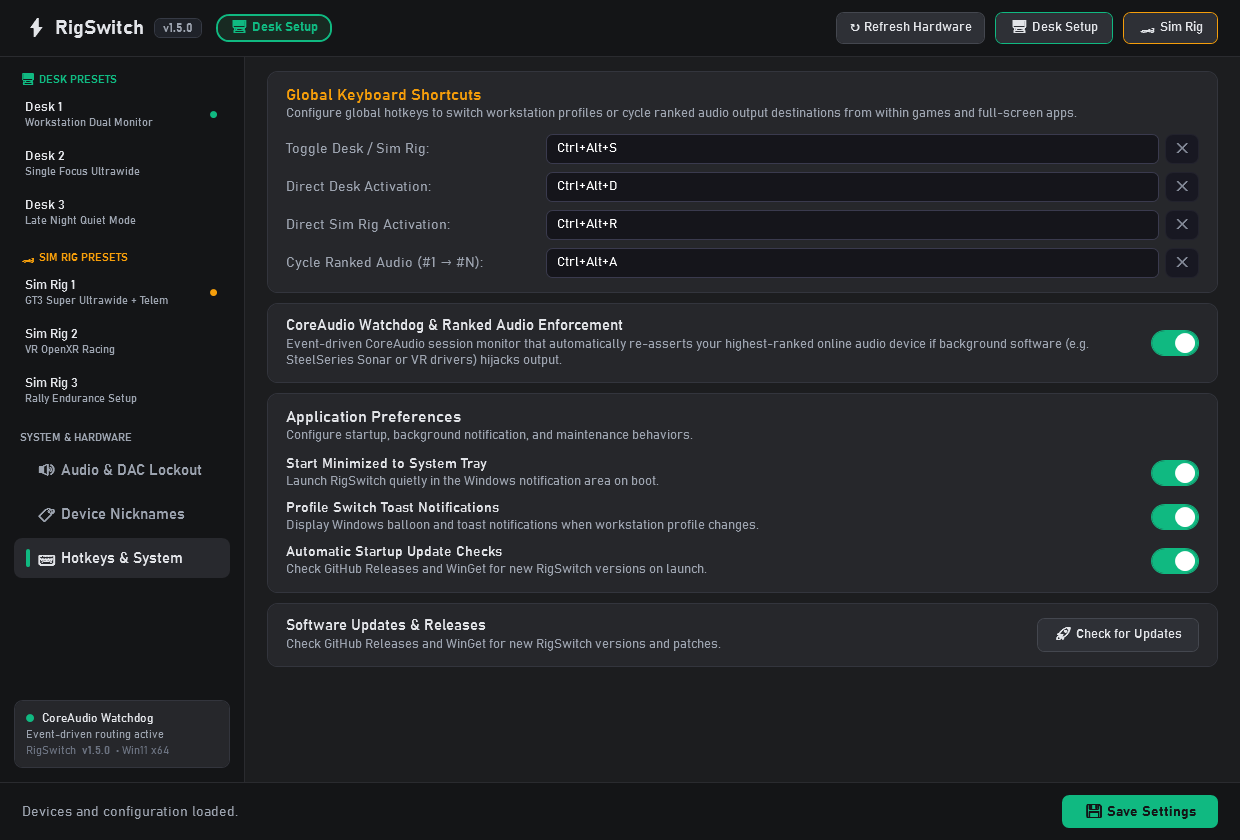
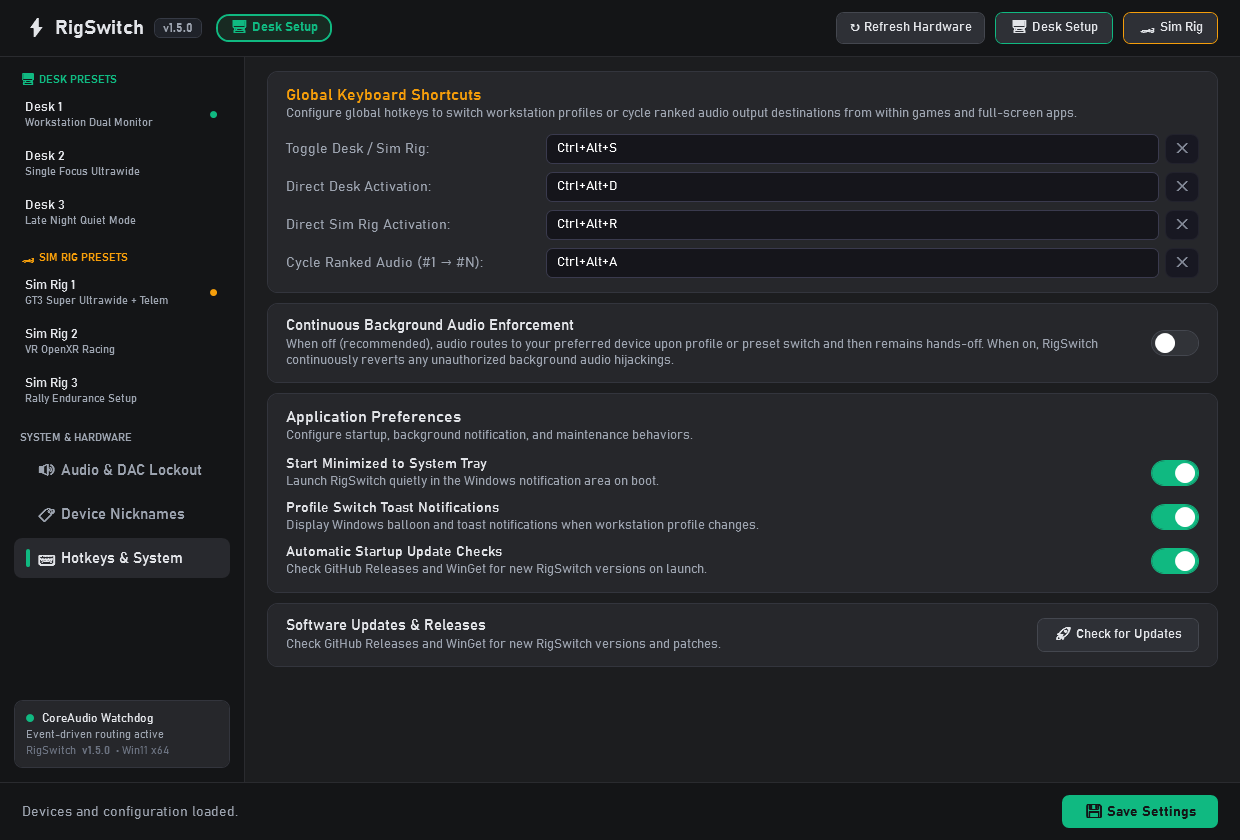
feat(audio): switch-only routing, multi-attribute shaker exclusion & disabled continuous background hijacking

Changed region(s): [[0.2145, 0.3714, 0.8887, 0.4333], [0.9194, 0.3714, 0.9806, 0.4333]]

diff --git a/src/RigSwitch.App/Views/MainSettingsWindow.xaml b/src/RigSwitch.App/Views/MainSettingsWindow.xaml
@@ -1352,8 +1352,8 @@
                                         <ColumnDefinition Width="Auto" />
                                     </Grid.ColumnDefinitions>
                                     <StackPanel VerticalAlignment="Center" Margin="0,0,16,0">
-                                        <TextBlock Text="CoreAudio Watchdog &amp; Ranked Audio Enforcement" FontSize="15" FontWeight="SemiBold" Foreground="{StaticResource TextPrimaryBrush}" />
-                                        <TextBlock Text="Event-driven CoreAudio session monitor that automatically re-asserts your highest-ranked online audio device if background software (e.g. SteelSeries Sonar or VR drivers) hijacks output." FontSize="12.5" Foreground="{StaticResource TextMutedBrush}" Margin="0,2,0,0" TextWrapping="Wrap" />
+                                        <TextBlock Text="Continuous Background Audio Enforcement" FontSize="15" FontWeight="SemiBold" Foreground="{StaticResource TextPrimaryBrush}" />
+                                        <TextBlock Text="When off (recommended), audio routes to your preferred device upon profile or preset switch and then remains hands-off. When on, RigSwitch continuously reverts any unauthorized background audio hijackings." FontSize="12.5" Foreground="{StaticResource TextMutedBrush}" Margin="0,2,0,0" TextWrapping="Wrap" />
                                     </StackPanel>
                                     <CheckBox Grid.Column="1"
                                               Style="{StaticResource FluentToggleSwitch}"

diff --git a/src/RigSwitch.Core/Services/ProfileSwitchCoordinator.cs b/src/RigSwitch.Core/Services/ProfileSwitchCoordinator.cs
@@ -120,7 +120,7 @@ public sealed partial class ProfileSwitchCoordinator : IProfileSwitchCoordinator
             var endpoints = await _audioDirector.EnumerateAudioEndpointsAsync(cancellationToken).ConfigureAwait(false);
             var endpointList = endpoints as IList<AudioEndpointInfo> ?? endpoints.ToList();
             var blacklisted = settings.BlacklistedAudioEndpointIds ?? [];
-            var allowedEndpoints = endpointList.Where(e => !blacklisted.Any(b => MatchesEndpoint(b, e.Id))).ToList();
+            var allowedEndpoints = endpointList.Where(e => !MatchesBlacklist(e, blacklisted, settings.CachedDeviceNames)).ToList();
             var playbackEndpoints = allowedEndpoints.Where(e => e.Flow == AudioDeviceFlow.Playback).ToList();
             var captureEndpoints = allowedEndpoints.Where(e => e.Flow == AudioDeviceFlow.Capture).ToList();
 
@@ -281,7 +281,7 @@ public sealed partial class ProfileSwitchCoordinator : IProfileSwitchCoordinator
             var endpoints = await _audioDirector.EnumerateAudioEndpointsAsync(cancellationToken).ConfigureAwait(false);
             var endpointList = endpoints as IList<AudioEndpointInfo> ?? endpoints.ToList();
             var blacklisted = settings.BlacklistedAudioEndpointIds ?? [];
-            var allowedEndpoints = endpointList.Where(e => !blacklisted.Any(b => MatchesEndpoint(b, e.Id))).ToList();
+            var allowedEndpoints = endpointList.Where(e => !MatchesBlacklist(e, blacklisted, settings.CachedDeviceNames)).ToList();
             var playbackEndpoints = allowedEndpoints.Where(e => e.Flow == AudioDeviceFlow.Playback).ToList();
             var captureEndpoints = allowedEndpoints.Where(e => e.Flow == AudioDeviceFlow.Capture).ToList();
 
@@ -299,7 +299,7 @@ public sealed partial class ProfileSwitchCoordinator : IProfileSwitchCoordinator
                     await Task.Delay(250, cancellationToken).ConfigureAwait(false);
                     endpoints = await _audioDirector.EnumerateAudioEndpointsAsync(cancellationToken).ConfigureAwait(false);
                     endpointList = endpoints as IList<AudioEndpointInfo> ?? endpoints.ToList();
-                    allowedEndpoints = endpointList.Where(e => !blacklisted.Any(b => MatchesEndpoint(b, e.Id))).ToList();
+                    allowedEndpoints = endpointList.Where(e => !MatchesBlacklist(e, blacklisted, settings.CachedDeviceNames)).ToList();
                     playbackEndpoints = allowedEndpoints.Where(e => e.Flow == AudioDeviceFlow.Playback).ToList();
                     captureEndpoints = allowedEndpoints.Where(e => e.Flow == AudioDeviceFlow.Capture).ToList();
 
@@ -483,6 +483,44 @@ public sealed partial class ProfileSwitchCoordinator : IProfileSwitchCoordinator
         }
     }
 
+    private static bool MatchesBlacklist(
+        AudioEndpointInfo endpoint,
+        IReadOnlyList<string>? blacklisted,
+        IDictionary<string, string>? cachedNames)
+    {
+        if (blacklisted == null || blacklisted.Count == 0)
+        {
+            return false;
+        }
+
+        foreach (var b in blacklisted)
+        {
+            if (string.IsNullOrWhiteSpace(b))
+            {
+                continue;
+            }
+
+            if (MatchesEndpoint(b, endpoint.Id))
+            {
+                return true;
+            }
+
+            if (MatchesFriendlyName(b, endpoint.Name, cachedNames))
+            {
+                return true;
+            }
+
+            if (cachedNames != null && cachedNames.TryGetValue(b, out var cachedBlacklistName) &&
+                !string.IsNullOrWhiteSpace(cachedBlacklistName) &&
+                string.Equals(cachedBlacklistName, endpoint.Name, StringComparison.OrdinalIgnoreCase))
+            {
+                return true;
+            }
+        }
+
+        return false;
+    }
+
     private static string? ResolveRankedAudioEndpoint(
         IReadOnlyList<string> rankedIds,
         IList<AudioEndpointInfo> allowedEndpoints,
@@ -503,15 +541,15 @@ public sealed partial class ProfileSwitchCoordinator : IProfileSwitchCoordinator
 
             var activeMatch = allowedEndpoints.FirstOrDefault(e =>
                 (MatchesEndpoint(e.Id, candidateId) || MatchesFriendlyName(candidateId, e.Name, cachedNames)) &&
-                e.State == DevicePresenceState.Active);
+                e.State == DevicePresenceState.Active &&
+                !MatchesBlacklist(e, blacklisted, cachedNames));
             if (activeMatch != null)
             {
                 return activeMatch.Id;
             }
         }
 
-        var firstActive = allowedEndpoints.FirstOrDefault(e => e.State == DevicePresenceState.Active);
-        return firstActive?.Id;
+        return null;
     }
 
     private static string? ResolveNextCycledRankedEndpoint(
@@ -577,9 +615,7 @@ public sealed partial class ProfileSwitchCoordinator : IProfileSwitchCoordinator
         var effectiveFallback = isFallbackBlacklisted ? null : fallbackAudioId;
 
         var candidates = endpoints as IList<AudioEndpointInfo> ?? endpoints.ToList();
-        var allowedCandidates = blacklisted != null
-            ? candidates.Where(e => !blacklisted.Any(b => MatchesEndpoint(b, e.Id))).ToList()
-            : candidates;
+        var allowedCandidates = candidates.Where(e => !MatchesBlacklist(e, blacklisted, cachedNames)).ToList();
 
         var primaryMatch = allowedCandidates.FirstOrDefault(e =>
             (MatchesEndpoint(e.Id, effectivePrimary) || MatchesFriendlyName(effectivePrimary, e.Name, cachedNames)) &&

diff --git a/src/RigSwitch.Infrastructure/Windows/CoreAudio/AudioEndpointWatchdogService.cs b/src/RigSwitch.Infrastructure/Windows/CoreAudio/AudioEndpointWatchdogService.cs
@@ -275,7 +275,7 @@ public sealed partial class AudioEndpointWatchdogService : IAudioEndpointWatchdo
                 }
             }
 
-            bool isBlacklisted = blacklisted?.Any(b => MatchesEndpoint(b, effectiveEndpointId)) == true;
+            bool isBlacklisted = MatchesBlacklist(effectiveEndpointId, blacklisted, renderEndpoints, settings.CachedDeviceNames);
             if (isBlacklisted)
             {
                 string? targetId = null;
@@ -291,13 +291,6 @@ public sealed partial class AudioEndpointWatchdogService : IAudioEndpointWatchdo
                 {
                     var activePreset = settings.GetActivePreset(settings.LastActiveProfile);
                     targetId = ResolveEffectiveTargetEndpoint(activePreset, settings.ActiveAudioOutputMode, blacklisted, renderEndpoints, settings.CachedDeviceNames);
-                }
-
-                if (string.IsNullOrWhiteSpace(targetId) && renderEndpoints is { Count: > 0 })
-                {
-                    targetId = renderEndpoints
-                        .FirstOrDefault(e => e.State == DevicePresenceState.Active && blacklisted?.Any(b => MatchesEndpoint(b, e.Id)) != true)
-                        ?.Id;
                 }
 
                 if (!string.IsNullOrWhiteSpace(targetId))
@@ -379,7 +372,7 @@ public sealed partial class AudioEndpointWatchdogService : IAudioEndpointWatchdo
                 if (renderEndpoints is { Count: > 0 })
                 {
                     var match = renderEndpoints.FirstOrDefault(e => e.State == DevicePresenceState.Active &&
-                        !blacklisted?.Any(b => MatchesEndpoint(b, e.Id)) == true &&
+                        !MatchesBlacklist(e.Id, blacklisted, renderEndpoints, cachedNames) &&
                         (MatchesEndpoint(candidateId, e.Id) || MatchesFriendlyName(candidateId, e.Name, cachedNames)));
                     if (match != null)
                     {
@@ -402,7 +395,7 @@ public sealed partial class AudioEndpointWatchdogService : IAudioEndpointWatchdo
         if (renderEndpoints is { Count: > 0 })
         {
             var matchPreferred = renderEndpoints.FirstOrDefault(e => e.State == DevicePresenceState.Active &&
-                !blacklisted?.Any(b => MatchesEndpoint(b, e.Id)) == true &&
+                !MatchesBlacklist(e.Id, blacklisted, renderEndpoints, cachedNames) &&
                 (MatchesEndpoint(preferredId, e.Id) || MatchesFriendlyName(preferredId, e.Name, cachedNames)));
             if (matchPreferred != null)
             {
@@ -410,7 +403,7 @@ public sealed partial class AudioEndpointWatchdogService : IAudioEndpointWatchdo
             }
 
             var matchFallback = renderEndpoints.FirstOrDefault(e => e.State == DevicePresenceState.Active &&
-                !blacklisted?.Any(b => MatchesEndpoint(b, e.Id)) == true &&
+                !MatchesBlacklist(e.Id, blacklisted, renderEndpoints, cachedNames) &&
                 (MatchesEndpoint(activePreset.FallbackAudioId, e.Id) || MatchesFriendlyName(activePreset.FallbackAudioId, e.Name, cachedNames)));
             if (matchFallback != null)
             {
@@ -433,6 +426,49 @@ public sealed partial class AudioEndpointWatchdogService : IAudioEndpointWatchdo
         return null;
     }
 
+    private static bool MatchesBlacklist(
+        string? endpointId,
+        IReadOnlyList<string>? blacklisted,
+        IReadOnlyList<AudioEndpointInfo>? renderEndpoints,
+        IDictionary<string, string>? cachedNames)
+    {
+        if (string.IsNullOrWhiteSpace(endpointId) || blacklisted == null || blacklisted.Count == 0)
+        {
+            return false;
+        }
+
+        var endpoint = renderEndpoints?.FirstOrDefault(e => MatchesEndpoint(e.Id, endpointId));
+        string? endpointName = endpoint?.Name;
+
+        foreach (var b in blacklisted)
+        {
+            if (string.IsNullOrWhiteSpace(b))
+            {
+                continue;
+            }
+
+            if (MatchesEndpoint(b, endpointId))
+            {
+                return true;
+            }
+
+            if (!string.IsNullOrWhiteSpace(endpointName) && MatchesFriendlyName(b, endpointName, cachedNames))
+            {
+                return true;
+            }
+
+            if (!string.IsNullOrWhiteSpace(endpointName) && cachedNames != null &&
+                cachedNames.TryGetValue(b, out var cachedBlacklistName) &&
+                !string.IsNullOrWhiteSpace(cachedBlacklistName) &&
+                string.Equals(cachedBlacklistName, endpointName, StringComparison.OrdinalIgnoreCase))
+            {
+                return true;
+            }
+        }
+
+        return false;
+    }
+
     private static bool IsEndpointAvailable(
         string? candidateId,
         IReadOnlyList<string>? blacklisted,
@@ -444,7 +480,7 @@ public sealed partial class AudioEndpointWatchdogService : IAudioEndpointWatchdo
             return false;
         }
 
-        if (blacklisted?.Any(b => MatchesEndpoint(b, candidateId)) == true)
+        if (MatchesBlacklist(candidateId, blacklisted, renderEndpoints, cachedNames))
         {
             return false;
         }

diff --git a/tests/RigSwitch.Tests.Unit/ProfileSwitchCoordinatorAudioToggleTests.cs b/tests/RigSwitch.Tests.Unit/ProfileSwitchCoordinatorAudioToggleTests.cs
@@ -428,5 +428,79 @@ public sealed class ProfileSwitchCoordinatorAudioToggleTests
         Assert.True(startingCalled);
         Assert.True(completedCalled);
     }
+
+    [Fact]
+    public async Task SwitchProfile_FiltersOutBlacklistedAudioEndpoints_ByFriendlyName()
+    {
+        var settings = new UserSettings
+        {
+            BlacklistedAudioEndpointIds = ["{OLD-SHAKER-GUID}"],
+            CachedDeviceNames = new Dictionary<string, string>
+            {
+                ["{OLD-SHAKER-GUID}"] = "Pedals - Nobsound (USB2.0 Device)"
+            },
+            DeskPresets =
+            [
+                new WorkstationPreset
+                {
+                    PrimaryAudioId = "{OFFLINE-ID}",
+                    FallbackAudioId = string.Empty,
+                    TargetMonitorIds = ["MONITOR-1"]
+                }
+            ]
+        };
+        _storageService.LoadSettingsAsync(Arg.Any<CancellationToken>()).Returns(settings);
+
+        _displayManager.EnumerateDisplaysAsync(Arg.Any<CancellationToken>())
+            .Returns([new DisplayDeviceInfo("MONITOR-1", @"\\.\DISPLAY1", "OLED", "GPU", true, true)]);
+
+        var endpoints = new List<AudioEndpointInfo>
+        {
+            new("{NEW-SHAKER-GUID}", "Pedals - Nobsound (USB2.0 Device)", "USB", DevicePresenceState.Active, false, false, AudioDeviceFlow.Playback),
+            new("{SPEAKERS}", "Pebble V3", "Realtek", DevicePresenceState.Active, false, false, AudioDeviceFlow.Playback)
+        };
+        _audioDirector.EnumerateAudioEndpointsAsync(Arg.Any<CancellationToken>()).Returns(endpoints);
+
+        var coordinator = new ProfileSwitchCoordinator(_displayManager, _audioDirector, _storageService);
+        await coordinator.SwitchProfileAsync(ProfileMode.Desk);
+
+        // Crucial: Must match friendly name and NOT route to {NEW-SHAKER-GUID}
+        await _audioDirector.Received(1).SetDefaultPlaybackEndpointAsync("{SPEAKERS}", Arg.Any<CancellationToken>());
+        await _audioDirector.DidNotReceive().SetDefaultPlaybackEndpointAsync("{NEW-SHAKER-GUID}", Arg.Any<CancellationToken>());
+    }
+
+    [Fact]
+    public async Task SwitchProfile_WhenRankedEndpointsOffline_DoesNotPickActiveShaker()
+    {
+        var settings = new UserSettings
+        {
+            BlacklistedAudioEndpointIds = ["{SHAKER-FOXI}"],
+            DeskPresets =
+            [
+                new WorkstationPreset
+                {
+                    AudioPriorityIds = ["{MONITOR-AUDIO}"],
+                    TargetMonitorIds = ["MONITOR-1"]
+                }
+            ]
+        };
+        _storageService.LoadSettingsAsync(Arg.Any<CancellationToken>()).Returns(settings);
+
+        _displayManager.EnumerateDisplaysAsync(Arg.Any<CancellationToken>())
+            .Returns([new DisplayDeviceInfo("MONITOR-1", @"\\.\DISPLAY1", "OLED", "GPU", true, true)]);
+
+        var endpoints = new List<AudioEndpointInfo>
+        {
+            new("{MONITOR-AUDIO}", "MSI MPG341CX OLED", "NVIDIA", DevicePresenceState.NotPresent, false, false, AudioDeviceFlow.Playback),
+            new("{SHAKER-FOXI}", "Chassis - Fosi BST-1 (USB Audio Adapter)", "USB", DevicePresenceState.Active, false, false, AudioDeviceFlow.Playback)
+        };
+        _audioDirector.EnumerateAudioEndpointsAsync(Arg.Any<CancellationToken>()).Returns(endpoints);
+
+        var coordinator = new ProfileSwitchCoordinator(_displayManager, _audioDirector, _storageService);
+        await coordinator.SwitchProfileAsync(ProfileMode.Desk);
+
+        // Must NOT route to shaker
+        await _audioDirector.DidNotReceive().SetDefaultPlaybackEndpointAsync("{SHAKER-FOXI}", Arg.Any<CancellationToken>());
+    }
 }
 

diff --git a/src/RigSwitch.App/ViewModels/DeviceOptionResolver.cs b/src/RigSwitch.App/ViewModels/DeviceOptionResolver.cs
@@ -43,7 +43,8 @@ internal static partial class DeviceOptionResolver
     /// <returns>A list of audio endpoints that are not blacklisted.</returns>
     public static IReadOnlyList<AudioEndpointInfo> FilterBlacklistedEndpoints(
         IEnumerable<AudioEndpointInfo>? endpoints,
-        IEnumerable<string>? blacklistedIds)
+        IEnumerable<string>? blacklistedIds,
+        IDictionary<string, string>? cachedNames = null)
     {
         if (endpoints == null)
         {
@@ -60,7 +61,11 @@ internal static partial class DeviceOptionResolver
         }
 
         return endpoints
-            .Where(ep => !blacklist.Any(bId => MatchesEndpoint(bId, ep.Id)))
+            .Where(ep => !blacklist.Any(bId =>
+                MatchesEndpoint(bId, ep.Id) ||
+                (cachedNames != null && cachedNames.TryGetValue(bId, out var cachedName) &&
+                 !string.IsNullOrWhiteSpace(cachedName) &&
+                 string.Equals(cachedName, ep.Name, StringComparison.OrdinalIgnoreCase))))
             .ToList();
     }
 

diff --git a/src/RigSwitch.Core/Models/UserSettings.cs b/src/RigSwitch.Core/Models/UserSettings.cs
@@ -251,9 +251,10 @@ public sealed record UserSettings
     public string AudioToggleHotkey { get; set; } = "Ctrl+Alt+A";
 
     /// <summary>
-    /// Gets or sets a value indicating whether primary audio is strictly enforced upon profile activation.
+    /// Gets or sets a value indicating whether primary audio is continuously enforced in the background.
+    /// When false, audio is routed only upon profile or preset switching, leaving subsequent manual switches intact.
     /// </summary>
-    public bool EnforcePrimaryAudio { get; set; } = true;
+    public bool EnforcePrimaryAudio { get; set; }
 
     /// <summary>
     /// Gets or sets the active audio output destination mode.

diff --git a/src/RigSwitch.App/ViewModels/PresetConfigurationItemViewModel.cs b/src/RigSwitch.App/ViewModels/PresetConfigurationItemViewModel.cs
@@ -1023,7 +1023,7 @@ public sealed class PresetConfigurationItemViewModel : ViewModelBase
         }
 
         AddableAudioOptions.Clear();
-        var allowedAudio = DeviceOptionResolver.FilterBlacklistedEndpoints(_latestAudioEndpoints, _blacklistedIds);
+        var allowedAudio = DeviceOptionResolver.FilterBlacklistedEndpoints(_latestAudioEndpoints, _blacklistedIds, _cachedNames);
         var unassignedAudio = allowedAudio
             .Where(e => e.Flow == AudioDeviceFlow.Playback && !_audioPriorityIds.Any(id => DeviceOptionResolver.MatchesEndpoint(id, e.Id)))
             .OrderBy(e => e.State == DevicePresenceState.Active ? 0 : 1)

diff --git a/src/RigSwitch.App/ViewModels/MainSettingsViewModel.cs b/src/RigSwitch.App/ViewModels/MainSettingsViewModel.cs
@@ -41,7 +41,7 @@ public sealed partial class MainSettingsViewModel : ViewModelBase, IDisposable
     private string _deskHotkey = "Ctrl+Alt+D";
     private string _rigHotkey = "Ctrl+Alt+R";
     private string _audioToggleHotkey = "Ctrl+Alt+A";
-    private bool _enforcePrimaryAudio = true;
+    private bool _enforcePrimaryAudio;
     private bool _startMinimizedToTray = true;
     private bool _showToastNotifications = true;
     private bool _enableAutoUpdateCheck = true;

diff --git a/tests/RigSwitch.Tests.Unit/UserSettingsAudioTests.cs b/tests/RigSwitch.Tests.Unit/UserSettingsAudioTests.cs
@@ -21,7 +21,7 @@ public sealed class UserSettingsAudioTests
         var settings = new UserSettings();
         Assert.Empty(settings.BlacklistedAudioEndpointIds);
         Assert.Equal("Ctrl+Alt+A", settings.AudioToggleHotkey);
-        Assert.True(settings.EnforcePrimaryAudio);
+        Assert.False(settings.EnforcePrimaryAudio);
         Assert.Equal(AudioOutputMode.Primary, settings.ActiveAudioOutputMode);
     }
 
